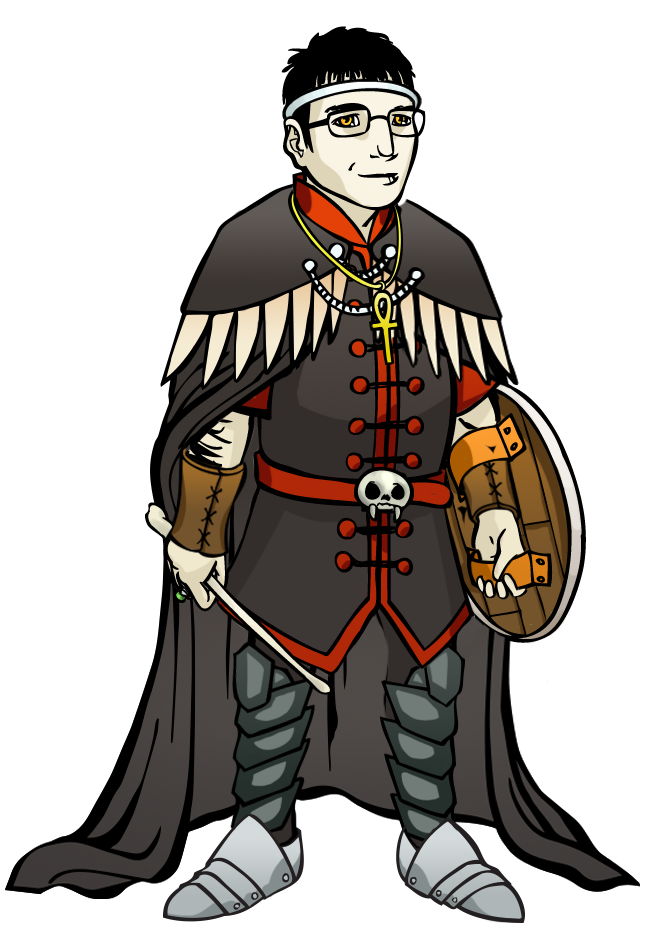
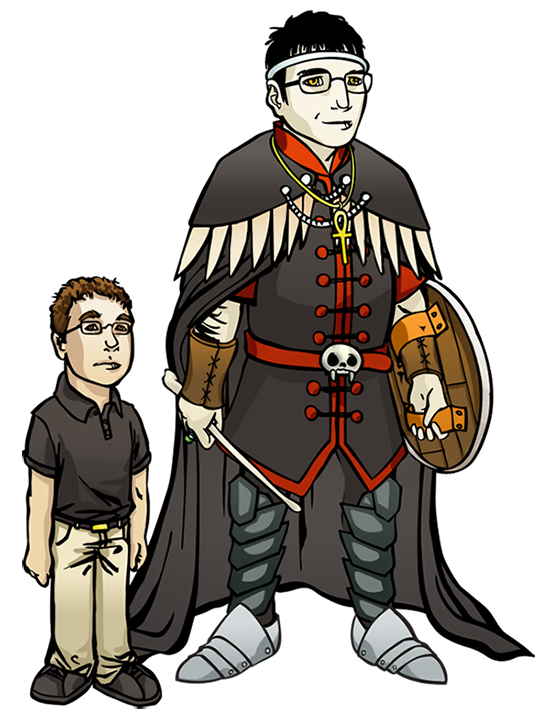
Added Cymen.

diff --git a/public/stylesheets/style.css b/public/stylesheets/style.css
@@ -19,7 +19,7 @@ aside {
   float: left;
 }
 aside img {
-  margin: 0 0 0 -5rem;
+  margin: 0 0 0 0rem;
 }
 article {
   width: 60%;
